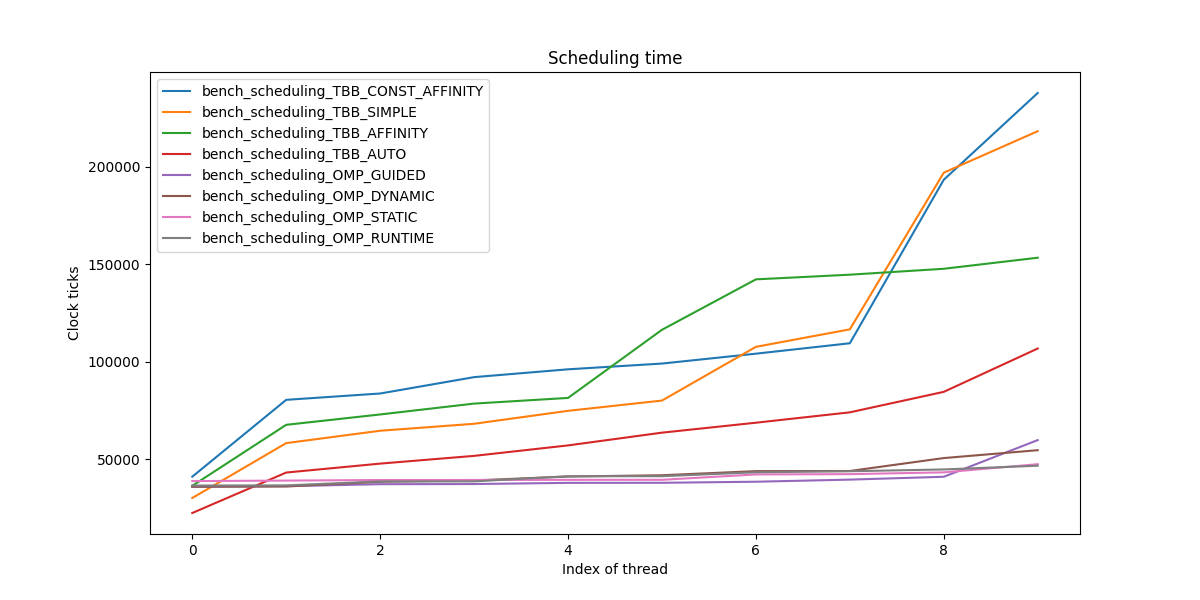
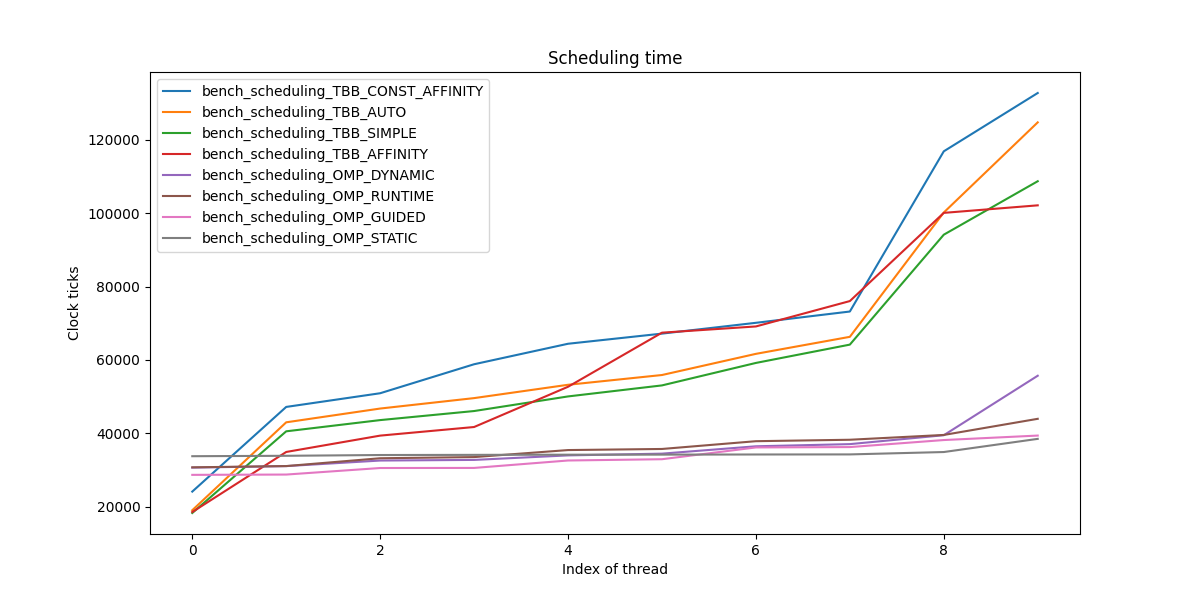
use 100 repeats

diff --git a/scheduling_time/bench_scheduling.cpp b/scheduling_time/bench_scheduling.cpp
@@ -134,7 +134,7 @@ int main(int argc, char **argv) {
   }
   runOnce(threadNum); // just for warmup
 
-  size_t repeat = 20;
+  size_t repeat = 100;
   std::vector<std::vector<uint64_t>> results;
   for (size_t i = 0; i < repeat; i++) {
     auto times = runOnce(threadNum);
